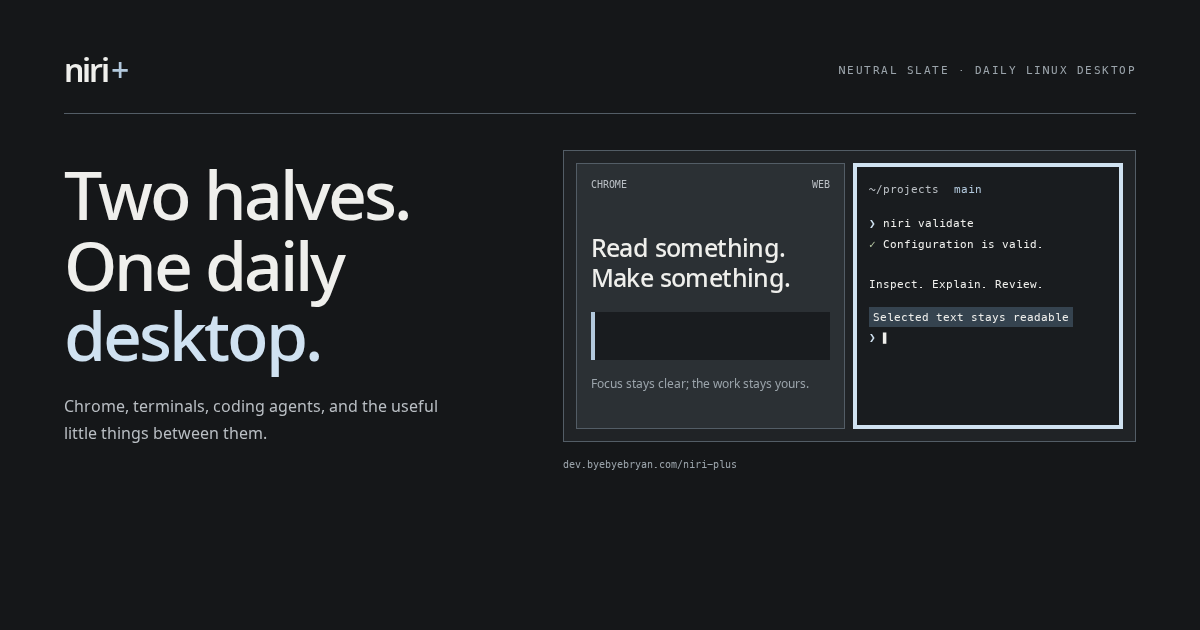
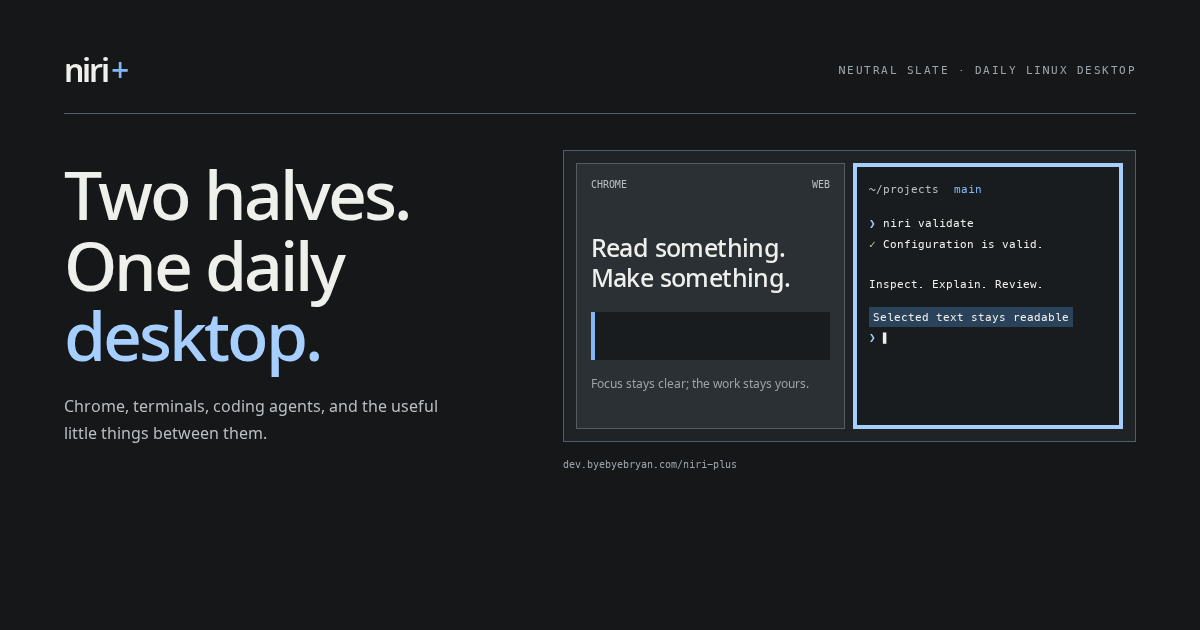
feat(design): strengthen Neutral Slate with Clear Blue accents

Changed region(s): [[0.7092, 0.2413, 0.9558, 0.6937], [0.0308, 0.4825, 0.2775, 0.6032]]

diff --git a/site/home.html b/site/home.html
@@ -26,7 +26,7 @@
   <div class="panel-copy"><p class="eyebrow">A closer look</p><h2 id="panel-title">No permanent bar.<br>A panel with a job.</h2><p>Notifications and system information live together in SwayNC. Open it, check what matters, and get back to work.</p><p class="muted">The fork adds native hardware cards, refreshes while open, and keeps notification actions connected to the application that sent them.</p><a class="text-link" href="@@BASE@@recipes/notifications/">See how the panel fits <span aria-hidden="true">→</span></a></div>
   <div class="panel-media">@@PANEL@@</div>
 </section>
-<section class="intro-band wrap" aria-labelledby="identity-title"><p class="eyebrow">The visual identity</p><h2 id="identity-title">A quiet base.<br>A clear point of focus.</h2><div class="intro-prose"><p>Neutral Slate pairs warm charcoal surfaces with Noto Sans, Meslo terminal type, and pale steel-blue focus.</p><p>The Design page shows the selected palette and the launch, information, terminal, and login/lock surfaces. These are illustrations; machine adoption remains a separate step.</p><a class="text-link" href="@@BASE@@design/">Explore the design <span aria-hidden="true">→</span></a></div></section>
+<section class="intro-band wrap" aria-labelledby="identity-title"><p class="eyebrow">The visual identity</p><h2 id="identity-title">A quiet base.<br>A clear point of focus.</h2><div class="intro-prose"><p>Neutral Slate pairs warm charcoal surfaces with Noto Sans, Meslo terminal type, and clear blue focus.</p><p>The Design page shows the selected palette and the launch, information, terminal, and login/lock surfaces. These are illustrations; the reference records machine adoption separately.</p><a class="text-link" href="@@BASE@@design/">Explore the design <span aria-hidden="true">→</span></a></div></section>
 <section class="build-section wrap" aria-labelledby="build-title">
   <div><p class="eyebrow">Make it useful to you</p><h2 id="build-title">Try a piece.<br>Build your own fit.</h2><p>Start with an existing Niri session and add what you need. The guides explain the configuration, the dependencies, and the choices to make along the way.</p><a class="button" href="@@BASE@@setup/">Start with the setup guide <span aria-hidden="true">→</span></a></div>
   <div class="recipe-links"><a href="@@BASE@@recipes/notifications/"><span>01 / Notifications</span>SwayNC and the panel <span aria-hidden="true">↗</span></a><a href="@@BASE@@recipes/clipboard/"><span>02 / Clipboard</span>Text, images, and Rofi <span aria-hidden="true">↗</span></a><a href="@@BASE@@recipes/session/"><span>03 / Session</span>Locking and idle policy <span aria-hidden="true">↗</span></a><a href="@@BASE@@recipes/terminal/"><span>04 / Terminal</span>Kitty, Zsh, and the prompt <span aria-hidden="true">↗</span></a><a href="@@BASE@@architecture/"><span>05 / Under the surface</span>What owns what <span aria-hidden="true">↗</span></a></div>

diff --git a/examples/theme/gtklock.css b/examples/theme/gtklock.css
@@ -4,8 +4,8 @@ window { background-image: none; background-color: #202020; color: #efefec; font
 #clock-label { font-size: 48pt; font-weight: 400; }
 #date-label { color: #b9bec3; }
 #input-label { margin-right: 8px; }
-#input-field { min-height: 36px; padding: 4px 12px; background-image: none; background-color: #303030; color: #efefec; caret-color: #d0e2f1; border: 1px solid #535d66; border-radius: 3px; box-shadow: none; }
-#input-field:focus { border-color: #d0e2f1; }
+#input-field { min-height: 36px; padding: 4px 12px; background-image: none; background-color: #303030; color: #efefec; caret-color: #a6ceff; border: 1px solid #535d66; border-radius: 3px; box-shadow: none; }
+#input-field:focus { border-color: #a6ceff; }
 #unlock-button { min-height: 36px; padding: 0 24px; background-image: none; background-color: #d0d0d0; color: #151b20; border: none; border-radius: 3px; box-shadow: none; text-shadow: none; font-weight: 500; }
 #unlock-button:hover, #unlock-button:active { background-color: #b9bec3; }
 #unlock-button:disabled { background-color: #2b3034; color: #9ba4ab; }

diff --git a/examples/theme/swaync.css b/examples/theme/swaync.css
@@ -6,11 +6,11 @@
   --noti-bg-alpha: 0.96;
   --noti-bg-darker: #191c1f;
   --noti-bg-hover: #2b3034;
-  --noti-bg-focus: #35434f;
+  --noti-bg-focus: #2b425b;
   --noti-border-color: #535d66;
   --text-color: #efefec;
   --text-color-disabled: #9ba4ab;
-  --bg-selected: #b3c9dd;
+  --bg-selected: #83b8f5;
   --border-radius: 0px;
   --notification-icon-size: 40px;
   --font-size-body: 11pt;
@@ -27,6 +27,6 @@
 .notification-row .notification-background .notification .notification-default-action .body { margin-top: 6px; }
 .notification-row .notification-background .notification .notification-alt-actions { padding: 0 12px 10px; }
 .notification-action > button, .widget-title > button { border-radius: 3px; }
-button:focus-visible { outline: 2px solid #d0e2f1; outline-offset: 2px; }
+button:focus-visible { outline: 2px solid #a6ceff; outline-offset: 2px; }
 progressbar trough { background: #191c1f; }
-progressbar progress { background: #b3c9dd; }
+progressbar progress { background: #83b8f5; }

diff --git a/site/identity-overview.html b/site/identity-overview.html
@@ -14,5 +14,5 @@
       </section>
     </div>
   </div>
-  <figcaption id="overview-caption">Niri tiles the browser and terminal. Pale blue focus marks the active window; the rest of the workspace stays neutral.</figcaption>
+  <figcaption id="overview-caption">Niri tiles the browser and terminal. Clear blue focus marks the active window; the rest of the workspace stays neutral.</figcaption>
 </figure>

diff --git a/tests/test_build.py b/tests/test_build.py
@@ -67,13 +67,13 @@ class BuildContracts(unittest.TestCase):
         self.assertEqual(len(identity["terminal"]["ansi_roles"]), 16)
         fragment = (self.output / "examples/kitty/neutral-slate.conf").read_text()
         self.assertIn("background #202326", fragment)
-        self.assertIn("cursor #d0e2f1", fragment)
-        self.assertIn("selection_background #35434f", fragment)
+        self.assertIn("cursor #a6ceff", fragment)
+        self.assertIn("selection_background #2b425b", fragment)
         self.assertIn("color1 #e5a09b", fragment)
         self.assertIn("color2 #b8c9a4", fragment)
         self.assertIn("color3 #ddbb80", fragment)
-        self.assertIn("color4 #b3c9dd", fragment)
-        self.assertIn("color12 #d0e2f1", fragment)
+        self.assertIn("color4 #83b8f5", fragment)
+        self.assertIn("color12 #a6ceff", fragment)
         self.assertNotIn("font_family", fragment)
         design = (self.output / "design/index.html").read_text()
         self.assertIn("Noto Sans", design)

diff --git a/docs/planning/clear-blue-accent.md b/docs/planning/clear-blue-accent.md
@@ -1,0 +1,23 @@
+# Neutral Slate: Clear Blue accent
+
+Selected on 2026-10-25 after reviewing pale blue, Clear Blue, amber and teal on
+the same Neutral Slate surfaces. The selected profile remains `neutral-slate`;
+`accent_variant: clear-blue` records this adjustment without adding a supported
+runtime theme or adopting the historical Slate Blue typography/status palette.
+
+| Role | Previous | Selected |
+| --- | --- | --- |
+| Accent / ANSI 4 | `#b3c9dd` | `#83b8f5` |
+| Focus / ANSI 12 | `#d0e2f1` | `#a6ceff` |
+| Selection | `#35434f` | `#2b425b` |
+
+Canvas, application surfaces, text, semantic status colors, fonts and geometry
+retain their existing values. The site specimens, social image, Kitty export,
+and native appearance examples consume the adjusted identity. Historical
+delivery records and earlier reports describe their original revisions.
+
+The producer identity SHA-256 is
[1 lines of base64/hex data omitted]
+Source/build/browser and isolated native checks precede immutable publication
+and scoped Carbon → Starship → Snap delivery. Normal-use visual feedback remains
+separate from those checks.

diff --git a/docs/design/identity.md b/docs/design/identity.md
@@ -2,7 +2,7 @@
 
 **Selected identity: Neutral Slate. One theme for the initial reference.**
 
-Use the reviewed warm charcoal/off-white surfaces, pale steel-blue accent,
+Use the reviewed warm charcoal/off-white surfaces, Clear Blue accent,
 Noto Sans UI, and Meslo terminal. Graphite Blue is retained as a future
 alternative. The public design presentation should show these choices in use.
 
@@ -25,10 +25,10 @@ appearance.
 | text | `#efefec` |
 | secondary | `#b9bec3` |
 | muted | `#9ba4ab` |
-| accent | `#b3c9dd` |
+| accent | `#83b8f5` |
 | accent ink | `#151b20` |
-| focus | `#d0e2f1` |
-| selection | `#35434f` |
+| focus | `#a6ceff` |
+| selection | `#2b425b` |
 | selection text | `#efefec` |
 | warning | `#ddbb80` |
 | error | `#e5a09b` |

diff --git a/docs/recipes/terminal.md b/docs/recipes/terminal.md
@@ -15,7 +15,7 @@ native behavior.
 
 The generated [Neutral Slate Kitty fragment](../../examples/kitty/neutral-slate.conf)
 contains only appearance options: a `#202326` background, warm off-white text,
-a pale blue cursor, blue-gray selection, and a coordinated 16-color ANSI table.
+a clear blue cursor, blue selection, and a coordinated 16-color ANSI table.
 It does not change input, paste handling, glyph mappings, cursor trail, windows,
 or shell behavior. The fragment is selected design material; its presence here
 does not claim native deployment.

diff --git a/docs/design.md b/docs/design.md
@@ -1,6 +1,6 @@
 # Neutral Slate
 
-Neutral Slate brings warm charcoal surfaces, readable type, and pale blue focus
+Neutral Slate brings warm charcoal surfaces, readable type, and clear blue focus
 to the browser-and-terminal desktop. Niri keeps the work area open; the palette
 helps identify focus, selection, and status without turning every surface blue.
 
